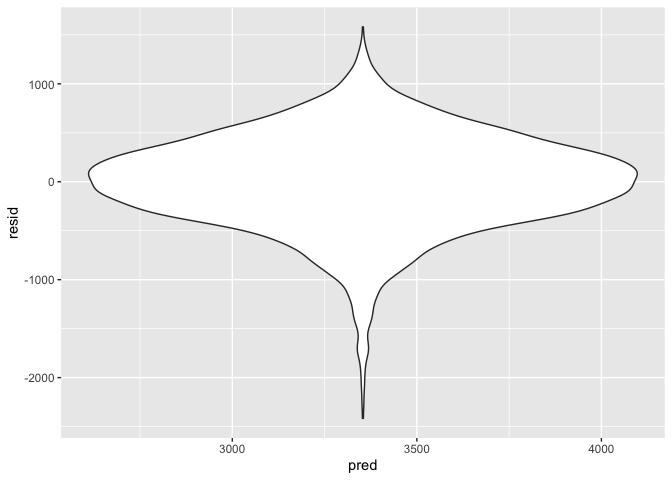
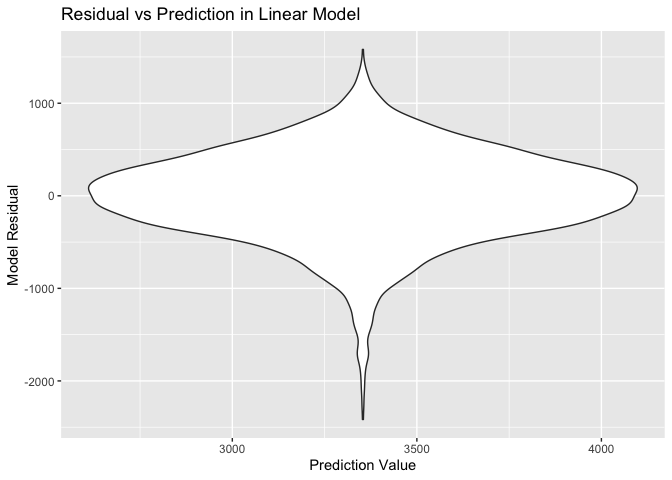
p3_model fitting done

diff --git a/p8105_hw6_zz3039.md b/p8105_hw6_zz3039.md
@@ -213,14 +213,19 @@ Data summary
 | smoken        |         0 |             1 |    4.15 |   7.41 |   0.00 |    0.00 |    0.00 |    5.00 |   60.0 | ▇▁▁▁▁ |
 | wtgain        |         0 |             1 |   22.08 |  10.94 | -46.00 |   15.00 |   22.00 |   28.00 |   89.0 | ▁▁▇▁▁ |
 
-Propose a regression model for birthweight. This model may be based on a
-hypothesized structure for the factors that underly birthweight, on a
-data-driven model-building process, or a combination of the two.
-Describe your modeling process and show a plot of model residuals
-against fitted values – use add_predictions and add_residuals in making
-this plot.
+### Model fitting
+
+As there have long held the belief in China that women should eat more
+during pregnancy, I decided to build a regression model to explore the
+influence of mothers’ weight gain, mothers’ weight before pregant and
+bmi before pregant on the children’s birth weight.
 
 ``` r
+bw_data = 
+  bw_data %>% 
+  mutate(
+    mrace = recode_factor(mrace, "1" = "White","2" = "Black", "3" = "Asian", "4" = "Puerto Rican", "8" = "Other")) 
+
 bw_lm = lm(bwt ~ wtgain + ppwt + ppbmi, data = bw_data)
 summary(bw_lm)
 ```
@@ -257,39 +262,67 @@ bw_lm %>%
 bw_data %>% 
   modelr::add_residuals(bw_lm) %>% 
   modelr::add_predictions(bw_lm) %>% 
-  ggplot(aes(x = pred, y = resid)) + geom_violin()
+  ggplot(aes(x = pred, y = resid)) + geom_violin() +
+  labs(
+    title = "Residual vs Prediction in Linear Model",
+    x = "Prediction Value",
+    y = "Model Residual"
+  )
 ```
 
 ![](p8105_hw6_zz3039_files/figure-gfm/chunk_propose%20a%20model_1-2.png)<!-- -->
 
+The result showed that all three factors were significant in determining
+children’s birth weigth. The Q-Q plot and violin plot showed that the
+residuals of the model roughly followed normal distribution.
+
+### Model modifying
+
+After confirming that all three factors’ significance, I decided to
+explore if the three factors affect children’s birth weight differently
+within different races of mothers.
+
 ``` r
 bw_lm_nested = lm(bwt ~ wtgain*mrace + ppwt*mrace + ppbmi*mrace, data = bw_data)
-summary(bw_lm)
+summary(bw_lm_nested)
 ```
 
     ## 
     ## Call:
-    ## lm(formula = bwt ~ wtgain + ppwt + ppbmi, data = bw_data)
+    ## lm(formula = bwt ~ wtgain * mrace + ppwt * mrace + ppbmi * mrace, 
+    ##     data = bw_data)
     ## 
     ## Residuals:
     ##      Min       1Q   Median       3Q      Max 
-    ## -2416.89  -278.65    23.55   312.45  1581.37 
+    ## -2256.13  -253.22    20.72   305.79  1481.06 
     ## 
     ## Coefficients:
-    ##              Estimate Std. Error t value Pr(>|t|)    
-    ## (Intercept) 2366.1786    54.3577  43.530  < 2e-16 ***
-    ## wtgain        11.8791     0.6743  17.616  < 2e-16 ***
-    ## ppwt           9.1517     0.6978  13.114  < 2e-16 ***
-    ## ppbmi        -29.8667     4.4359  -6.733 1.88e-11 ***
+    ##                           Estimate Std. Error t value Pr(>|t|)    
+    ## (Intercept)              2531.2390    78.4831  32.252  < 2e-16 ***
+    ## wtgain                      9.5327     0.9752   9.775  < 2e-16 ***
+    ## mraceBlack               -431.8784   107.0124  -4.036 5.54e-05 ***
+    ## mraceAsian                110.0181   850.8382   0.129 0.897122    
+    ## mracePuerto Rican        -653.5126   263.5681  -2.479 0.013195 *  
+    ## ppwt                        9.8782     0.9708  10.175  < 2e-16 ***
+    ## ppbmi                     -32.8168     6.2160  -5.279 1.36e-07 ***
+    ## wtgain:mraceBlack           4.6316     1.3312   3.479 0.000508 ***
+    ## wtgain:mraceAsian          -7.1813    13.2803  -0.541 0.588706    
+    ## wtgain:mracePuerto Rican    1.8311     2.7680   0.662 0.508309    
+    ## mraceBlack:ppwt            -3.7466     1.3993  -2.678 0.007444 ** 
+    ## mraceAsian:ppwt           -10.0728    10.1309  -0.994 0.320150    
+    ## mracePuerto Rican:ppwt      0.1214     3.3880   0.036 0.971424    
+    ## mraceBlack:ppbmi           22.5810     8.8722   2.545 0.010958 *  
+    ## mraceAsian:ppbmi           57.8968    63.3561   0.914 0.360856    
+    ## mracePuerto Rican:ppbmi    22.8011    21.4929   1.061 0.288811    
     ## ---
     ## Signif. codes:  0 '***' 0.001 '**' 0.01 '*' 0.05 '.' 0.1 ' ' 1
     ## 
-    ## Residual standard error: 483 on 4338 degrees of freedom
-    ## Multiple R-squared:  0.1112, Adjusted R-squared:  0.1106 
-    ## F-statistic:   181 on 3 and 4338 DF,  p-value: < 2.2e-16
+    ## Residual standard error: 459 on 4326 degrees of freedom
+    ## Multiple R-squared:  0.1995, Adjusted R-squared:  0.1967 
+    ## F-statistic: 71.88 on 15 and 4326 DF,  p-value: < 2.2e-16
 
 ``` r
-bw_lm %>% 
+bw_lm_nested %>% 
   plot(which = 2)
 ```
 
@@ -297,9 +330,19 @@ bw_lm %>%
 
 ``` r
 bw_data %>% 
-  modelr::add_residuals(bw_lm) %>% 
-  modelr::add_predictions(bw_lm) %>% 
-  ggplot(aes(x = pred, y = resid)) + geom_violin() + facet_grid(~mrace)
+  modelr::add_residuals(bw_lm_nested) %>% 
+  modelr::add_predictions(bw_lm_nested) %>% 
+  ggplot(aes(x = pred, y = resid)) + geom_violin() + facet_grid(~mrace) +
+  labs(
+    title = "Residual vs Prediction in Nested Model",
+    x = "Prediction Value",
+    y = "Model Residual"
+  )
 ```
 
 ![](p8105_hw6_zz3039_files/figure-gfm/chunk_propose%20a%20model_2-2.png)<!-- -->
+
+The result showed that the three factors have different influences on
+birth weight of children with different races of mothers. They were all
+most influential on children with Black mothers, no significant
+influence were showed on children with Asian mothers.
